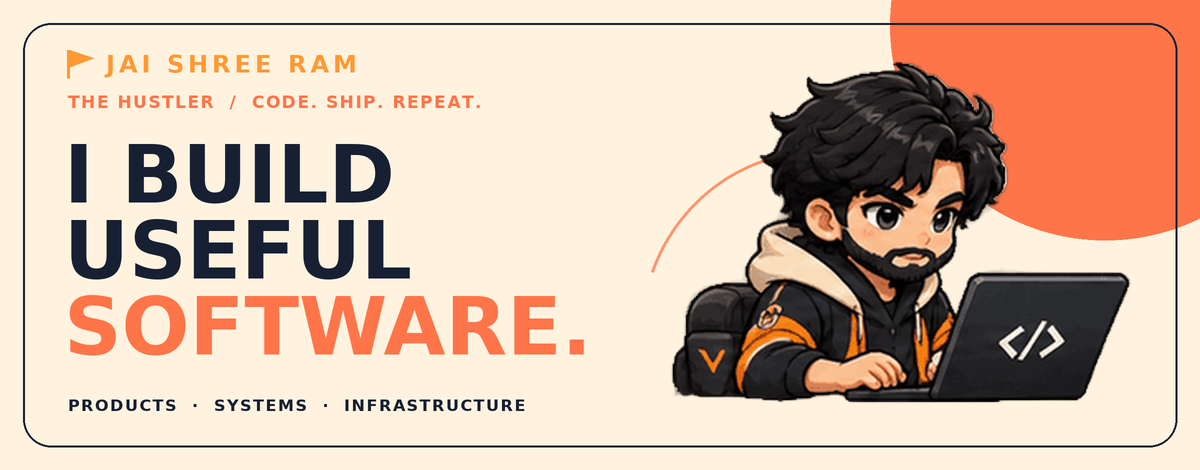
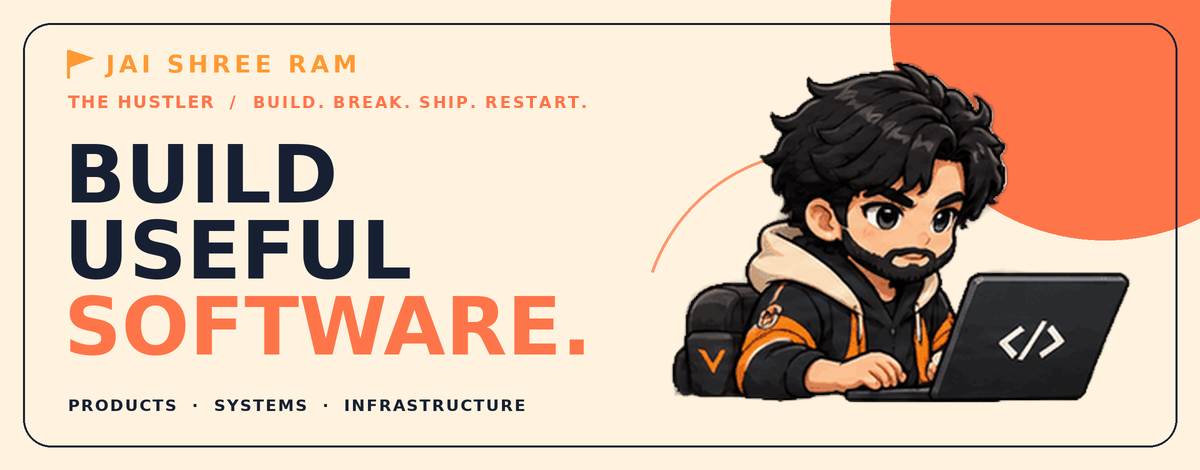
fix: ui ux improve color pallet

Changed region(s): [[0.0617, 0.2979, 0.3392, 0.4468], [0.2158, 0.1787, 0.4933, 0.2383]]

diff --git a/scripts/generate_stats.py b/scripts/generate_stats.py
@@ -55,37 +55,50 @@ if not ok:  # rate-limited: use each repo's primary language instead (never mix 
 top = langs.most_common(6); total = sum(v for _, v in top) or 1
 
 # ---------- svg helpers ----------
+# Same look as assets/id-card.png: ivory canvas, navy card, coral header strip with a badge slot.
+# Cards are 800px wide with large type so they stay readable when GitHub shrinks them on phones.
+M, R, HDR = 20, 26, 64  # outer margin, corner radius, header height
+
 def card(w, h, title, body):
+    cw, ch = w - 2 * M, h - 2 * M
     return f'''<svg xmlns="http://www.w3.org/2000/svg" width="{w}" height="{h}" viewBox="0 0 {w} {h}" role="img" aria-label="{html.escape(title)}">
-<defs><linearGradient id="g" x1="0" y1="0" x2="1" y2="0"><stop offset=".35" stop-color="{NAVY}"/><stop offset="1" stop-color="{NAVY2}"/></linearGradient></defs>
+<defs><clipPath id="card"><rect x="{M}" y="{M}" width="{cw}" height="{ch}" rx="{R}"/></clipPath></defs>
 <style>text{{font-family:{FONT}}}
 .in{{animation:in .7s ease-out backwards}}
 @keyframes in{{from{{opacity:0;transform:translateY(10px)}}to{{opacity:1;transform:none}}}}</style>
-<rect x="1" y="1" width="{w-2}" height="{h-2}" rx="26" fill="url(#g)" stroke="{CORAL}" stroke-width="2"/>
-<rect x="1" y="1" width="{w-2}" height="54" rx="26" fill="{CORAL}"/><rect x="1" y="28" width="{w-2}" height="27" fill="{CORAL}"/>
-<text x="32" y="35" font-size="17" font-weight="800" letter-spacing="3" fill="{NAVY}">{html.escape(title)}</text>
-<text x="{w-32}" y="35" font-size="17" font-weight="800" letter-spacing="3" fill="{NAVY}" text-anchor="end">{html.escape(USER.upper())}</text>
+<rect width="{w}" height="{h}" fill="{IVORY}"/>
+<g clip-path="url(#card)"><rect x="{M}" y="{M}" width="{cw}" height="{ch}" fill="{NAVY}"/><rect x="{M}" y="{M}" width="{cw}" height="{HDR}" fill="{CORAL}"/></g>
+<rect x="{w/2-45:.0f}" y="{M+HDR/2-7:.0f}" width="90" height="14" rx="7" fill="{NAVY}"/>
+<text x="{M+28}" y="{M+HDR/2+7:.0f}" font-size="20" font-weight="800" letter-spacing="3" fill="{NAVY}">{html.escape(title)}</text>
+<text x="{w-M-28}" y="{M+HDR/2+7:.0f}" font-size="20" font-weight="800" letter-spacing="3" fill="{NAVY}" text-anchor="end">{html.escape(USER.upper())}</text>
 {body}</svg>'''
 
-# ---------- stats card ----------
+W = 800; X0, X1 = M + 28, W - M - 28  # content edges
+TOP = M + HDR                           # body starts here
+
+# ---------- stats card: 3 x 2 grid ----------
 items = [("STARS", stars), ("COMMITS", commits), ("PULL REQUESTS", prs), ("ISSUES", issues), ("REPOSITORIES", n_repos), ("FOLLOWERS", followers)]
-W, H = 1200, 230; colw = (W - 64) / len(items); body = ""
+H = TOP + 262 + M; colw = (X1 - X0) / 3; rowh = 124; body = ""
 for i, (lab, val) in enumerate(items):
-    x = 32 + colw * i + colw / 2
-    body += f'<g class="in" style="animation-delay:{i*0.12:.2f}s"><text x="{x:.0f}" y="146" font-size="52" font-weight="800" fill="{IVORY}" text-anchor="middle">{fmt(val)}</text>'
-    body += f'<text x="{x:.0f}" y="182" font-size="13" font-weight="800" letter-spacing="2.5" fill="{CORAL}" text-anchor="middle">{lab}</text></g>'
-    if i: body += f'<line x1="{32+colw*i:.0f}" y1="100" x2="{32+colw*i:.0f}" y2="190" stroke="{IVORY}" stroke-opacity=".15"/>'
+    c, r = i % 3, i // 3
+    x = X0 + colw * c + colw / 2; y = TOP + 22 + r * rowh
+    body += f'<g class="in" style="animation-delay:{i*0.12:.2f}s"><text x="{x:.0f}" y="{y+30}" font-size="18" font-weight="800" letter-spacing="3" fill="{CORAL}" text-anchor="middle">{lab}</text>'
+    body += f'<text x="{x:.0f}" y="{y+94}" font-size="60" font-weight="800" fill="{IVORY}" text-anchor="middle">{fmt(val)}</text></g>'
+for c in (1, 2):
+    body += f'<line x1="{X0+colw*c:.0f}" y1="{TOP+30}" x2="{X0+colw*c:.0f}" y2="{TOP+240}" stroke="{IVORY}" stroke-opacity=".15"/>'
+body += f'<line x1="{X0}" y1="{TOP+22+rowh-8}" x2="{X1}" y2="{TOP+22+rowh-8}" stroke="{IVORY}" stroke-opacity=".15"/>'
 open("profile/stats.svg", "w").write(card(W, H, "GITHUB STATS", body))
 
-# ---------- top languages card ----------
-H2 = 250; bx, bw = 32, W - 64; x = bx; bar = f'<clipPath id="c"><rect x="{bx}" y="92" width="{bw}" height="22" rx="11"/></clipPath><g clip-path="url(#c)">'
+# ---------- top languages card: bar + 2-column legend ----------
+bw = X1 - X0; x = X0; by = TOP + 32
+bar = f'<clipPath id="bar"><rect x="{X0}" y="{by}" width="{bw}" height="26" rx="13"/></clipPath><g clip-path="url(#bar)">'
 for i, (n, v) in enumerate(top):
-    w = bw * v / total; bar += f'<rect x="{x:.1f}" y="92" width="{w:.1f}" height="22" fill="{LANG_COLORS[i]}"/>'; x += w
+    w = bw * v / total; bar += f'<rect x="{x:.1f}" y="{by}" width="{w:.1f}" height="26" fill="{LANG_COLORS[i]}"/>'; x += w
 bar += "</g>"
-leg = ""
-cols = 3; cw2 = bw / cols
+leg = ""; cols = 2; cw2 = bw / cols; rows = (len(top) + cols - 1) // cols
 for i, (n, v) in enumerate(top):
-    lx = bx + (i % cols) * cw2; ly = 160 + (i // cols) * 44
-    leg += f'<g class="in" style="animation-delay:{i*0.1:.1f}s"><circle cx="{lx+8:.0f}" cy="{ly-6}" r="7" fill="{LANG_COLORS[i]}"/><text x="{lx+26:.0f}" y="{ly}" font-size="18" font-weight="700" fill="{IVORY}">{html.escape(n)}</text><text x="{lx+cw2-24:.0f}" y="{ly}" font-size="18" font-weight="800" fill="{CORAL}" text-anchor="end">{v/total*100:.1f}%</text></g>'
+    lx = X0 + (i % cols) * cw2; ly = by + 84 + (i // cols) * 50
+    leg += f'<g class="in" style="animation-delay:{i*0.1:.1f}s"><circle cx="{lx+10:.0f}" cy="{ly-8}" r="9" fill="{LANG_COLORS[i]}"/><text x="{lx+32:.0f}" y="{ly}" font-size="24" font-weight="700" fill="{IVORY}">{html.escape(n)}</text><text x="{lx+cw2-(28 if i % cols == 0 else 0):.0f}" y="{ly}" font-size="24" font-weight="800" fill="{CORAL}" text-anchor="end">{v/total*100:.1f}%</text></g>'
+H2 = by + 84 + (rows - 1) * 50 + 34 + M
 open("profile/top-langs.svg", "w").write(card(W, H2, "TOP LANGUAGES", bar + leg))
 print("stats:", dict(items), "langs:", top)

diff --git a/scripts/generate_cards.py b/scripts/generate_cards.py
@@ -1,0 +1,100 @@
+#!/usr/bin/env python3
+"""Generates the static README cards (selected-work cards + tech thought of the day) with the
+same tokens as scripts/generate_stats.py, so every card shares one look.
+Usage: python scripts/generate_cards.py
+"""
+import datetime, html
+
+# ---- design tokens (keep in sync with generate_stats.py) ----
+NAVY, CORAL, SAFFRON, IVORY = "#101827", "#FF754A", "#FF9933", "#F5EBDD"
+FONT = "'Segoe UI',Helvetica,Arial,sans-serif"
+W, M, R, HDR = 800, 20, 26, 64        # width, outer margin, radius, header height
+X0, X1 = M + 28, W - M - 28           # content edges
+LABEL, BODY, VALUE = 18, 24, 44       # type scale: label / body / value
+TITLE = 32                            # card title (between body and value)
+
+
+def svg(h, label, body, delay=0.0):
+    return f'''<svg xmlns="http://www.w3.org/2000/svg" width="{W}" height="{h}" viewBox="0 0 {W} {h}" role="img" aria-label="{html.escape(label)}">
+<title>{html.escape(label)}</title>
+<defs><clipPath id="card"><rect x="{M}" y="{M}" width="{W-2*M}" height="{h-2*M}" rx="{R}"/></clipPath></defs>
+<style>text{{font-family:{FONT};font-weight:800}}
+.in{{animation:in .8s cubic-bezier(.22,.8,.3,1) {delay}s backwards}}
+@keyframes in{{from{{opacity:0;transform:translateY(12px)}}to{{opacity:1;transform:none}}}}</style>
+<rect width="{W}" height="{h}" fill="{IVORY}"/>
+{body}</svg>'''
+
+
+def header(h, left, right):
+    return (f'<g clip-path="url(#card)"><rect x="{M}" y="{M}" width="{W-2*M}" height="{h-2*M}" fill="{NAVY}"/>'
+            f'<rect x="{M}" y="{M}" width="{W-2*M}" height="{HDR}" fill="{CORAL}"/></g>'
+            f'<rect x="{W/2-45:.0f}" y="{M+HDR/2-7:.0f}" width="90" height="14" rx="7" fill="{NAVY}"/>'
+            f'<text x="{X0}" y="{M+HDR/2+7:.0f}" font-size="20" letter-spacing="3" fill="{NAVY}">{left}</text>'
+            f'<text x="{X1}" y="{M+HDR/2+7:.0f}" font-size="20" letter-spacing="3" fill="{NAVY}" text-anchor="end">{right}</text>')
+
+
+# ---- selected work: one linked card per project ----
+WORK = [
+    ("godevelopers", "GoDevelopers", "Developer ecosystem to learn &amp; contribute"),
+    ("fairshare", "FairShare", "Shared expenses, balances &amp; settlements"),
+    ("dsa-real-world", "DSA Real World", "DSA learning &amp; contributor workflows"),
+    ("recap", "Recap / StoryCode", "Programming concepts through stories"),
+]
+H = 170
+for i, (slug, name, desc) in enumerate(WORK):
+    cy = M + (H - 2 * M) / 2
+    body = (f'<g class="in">'
+            f'<g clip-path="url(#card)"><rect x="{M}" y="{M}" width="{W-2*M}" height="{H-2*M}" fill="{NAVY}"/>'
+            f'<rect x="{M}" y="{M}" width="10" height="{H-2*M}" fill="{CORAL}"/></g>'
+            f'<text x="{X0}" y="{M+40}" font-size="{LABEL}" letter-spacing="3" fill="{CORAL}">PROJECT {i+1:02d}</text>'
+            f'<text x="{X0}" y="{M+80}" font-size="{TITLE}" fill="{IVORY}">{name}</text>'
+            f'<text x="{X0}" y="{M+114}" font-size="{BODY}" font-weight="600" fill="{SAFFRON}">{desc}</text>'
+            f'<circle cx="{X1-28}" cy="{cy:.0f}" r="28" fill="{CORAL}"/>'
+            f'<path d="M{X1-37} {cy+9:.0f} L{X1-19} {cy-9:.0f} M{X1-31} {cy-9:.0f} H{X1-19} V{cy+3:.0f}" fill="none" stroke="{NAVY}" stroke-width="3" stroke-linecap="round" stroke-linejoin="round"/>'
+            f'</g>')
+    open(f"assets/work-{slug}.svg", "w").write(svg(H, f"{html.unescape(name)} — {html.unescape(desc)}", body, delay=i * 0.12))
+
+# ---- tech thought of the day (changes daily via the workflow) ----
+THOUGHTS = [
+    "Ship it. Then make it better.",
+    "Done and deployed beats perfect and pending.",
+    "Simple scales. Clever breaks at 3 AM.",
+    "Every bug is a lesson the code wanted to teach.",
+    "Logs are love letters to your future self.",
+    "Good naming is half the documentation.",
+    "If you do it twice, script it.",
+    "Read the error message. Then read it again.",
+    "Systems fail. Great engineers plan for it.",
+    "Small commits. Big progress.",
+    "Tests are the net that lets you move fast.",
+    "The best feature is the one users actually use.",
+    "Premature optimization is a beautiful trap.",
+    "Build. Break. Ship. Restart.",
+]
+
+
+def wrap(text, n=30):
+    lines, cur = [], ""
+    for w in text.split():
+        if cur and len(cur) + 1 + len(w) > n:
+            lines.append(cur); cur = w
+        else:
+            cur = f"{cur} {w}".strip()
+    return lines + [cur]
+
+
+today = datetime.date.today()
+thought = THOUGHTS[today.toordinal() % len(THOUGHTS)]
+lines = wrap(thought)
+assert len(lines) <= 2, thought
+TOP = M + HDR; H = TOP + 222 + M; by = TOP + 142   # pill row
+q = "".join(f'<text x="{X0+64}" y="{TOP+66+i*44}" font-size="{TITLE}" fill="{IVORY}">{html.escape(l)}</text>' for i, l in enumerate(lines))
+body = (f'<g class="in">{header(H, "TECH THOUGHT", today.strftime("%d %b %Y").upper())}'
+        f'<text x="{X0-4}" y="{TOP+100}" font-size="96" fill="{CORAL}">&#8220;</text>{q}'
+        f'<text x="{X0+64}" y="{by+35}" font-size="{LABEL}" letter-spacing="3" fill="{SAFFRON}">— THE HUSTLER</text>'
+        f'<rect x="{X1-340}" y="{by}" width="340" height="56" rx="28" fill="{CORAL}"/>'
+        f'<g transform="translate({X1-314},{by+16})" fill="none" stroke="{NAVY}" stroke-width="2.4" stroke-linecap="round" stroke-linejoin="round"><circle cx="9" cy="8" r="4"/><path d="M2 21c0-4 3-7 7-7s7 3 7 7M19 7v6M16 10h6"/></g>'
+        f'<text x="{X1-278}" y="{by+35}" font-size="20" letter-spacing="3" fill="{NAVY}">FOLLOW FOR MORE</text>'
+        f'</g>')
+open("assets/thought.svg", "w").write(svg(H, f"Tech thought: {thought} — The Hustler. Follow for more.", body, delay=5.2))
+print("cards written; thought:", thought)

diff --git a/README.md b/README.md
@@ -1,6 +1,9 @@
 <div align="center">
 
-<img src="./assets/hero.png" width="100%" alt="Vansh Gupta — The Hustler. I build useful software." />
+<picture>
+  <source media="(max-width: 600px)" srcset="./assets/hero-mobile.png" />
+  <img src="./assets/hero.png" width="100%" alt="Vansh Gupta — The Hustler. Build useful software. Build. Break. Ship. Restart." />
+</picture>
 
 <br/>
 
@@ -11,20 +14,25 @@
 ## About
 
 <div align="center">
-  <img src="./assets/id-card.png" width="100%" alt="Developer ID — Vansh Gupta, Full Stack Engineer, Saharanpur. Scan the QR code for the portfolio." />
+  <picture>
+    <source media="(max-width: 600px)" srcset="./assets/id-card-mobile.png" />
+    <img src="./assets/id-card.png" width="100%" alt="Developer ID — Vansh Gupta, Full Stack Engineer, Saharanpur. Scan the QR code for the portfolio." />
+  </picture>
 </div>
 
 ## Selected work
 
-- **[GoDevelopers ↗](https://godevelopers.space/)** — Developer ecosystem for learning and real-world contribution.
-- **[FairShare ↗](https://fairshare.guptavansh5747.workers.dev/)** — Shared expenses, balances and group settlements.
-- **[DSA Real World ↗](https://dsa-real-world.lovable.app/)** — DSA learning and contributor workflows.
-- **[Recap / StoryCode ↗](https://recap.godevelopes.space/)** — Programming concepts through stories.
+<div align="center">
+  <a href="https://godevelopers.space/"><img src="./assets/work-godevelopers.svg" width="100%" alt="GoDevelopers — Developer ecosystem for learning and real-world contribution." /></a>
+  <a href="https://fairshare.guptavansh5747.workers.dev/"><img src="./assets/work-fairshare.svg" width="100%" alt="FairShare — Shared expenses, balances and group settlements." /></a>
+  <a href="https://dsa-real-world.lovable.app/"><img src="./assets/work-dsa-real-world.svg" width="100%" alt="DSA Real World — DSA learning and contributor workflows." /></a>
+  <a href="https://recap.godevelopes.space/"><img src="./assets/work-recap.svg" width="100%" alt="Recap / StoryCode — Programming concepts through stories." /></a>
+</div>
 
 ## Stack
 
 <p align="center">
-  <img src="https://skillicons.dev/icons?i=js,ts,cpp,python,react,nextjs,tailwind,nodejs,nestjs,graphql,postgres,mongodb,redis,prisma,docker,aws,cloudflare&theme=dark" alt="Tech stack" />
+  <img src="https://skillicons.dev/icons?i=js,ts,cpp,python,react,nextjs,tailwind,nodejs,nestjs,graphql,postgres,mongodb,redis,prisma,docker,aws,cloudflare&perline=8&theme=dark" alt="Tech stack" />
 </p>
 
 ## GitHub
@@ -38,8 +46,12 @@
 
 <img src="./assets/outro.gif" width="100%" alt="Thanks for visiting! Let's connect and build something incredible." />
 
-<a href="https://aboutvansh.vercel.app"><img src="./assets/btn-portfolio.svg" height="60" alt="Portfolio" /></a>
-<a href="https://www.linkedin.com/in/vansh-gupta-b220961b7/"><img src="./assets/btn-linkedin.svg" height="60" alt="LinkedIn" /></a>
-<a href="mailto:vanshgupta7668@gmail.com"><img src="./assets/btn-email.svg" height="60" alt="Email" /></a>
+<a href="https://aboutvansh.vercel.app"><img src="./assets/btn-portfolio.svg" height="36" alt="Portfolio" /></a>
+<a href="https://www.linkedin.com/in/vansh-gupta-b220961b7/"><img src="./assets/btn-linkedin.svg" height="36" alt="LinkedIn" /></a>
+<a href="mailto:vanshgupta7668@gmail.com"><img src="./assets/btn-email.svg" height="36" alt="Email" /></a>
+
+<br/><br/>
+
+<a href="https://github.com/goyalvansh4"><img src="./assets/thought.svg" width="100%" alt="Tech thought of the day by the Hustler — follow for more." /></a>
 
 </div>
